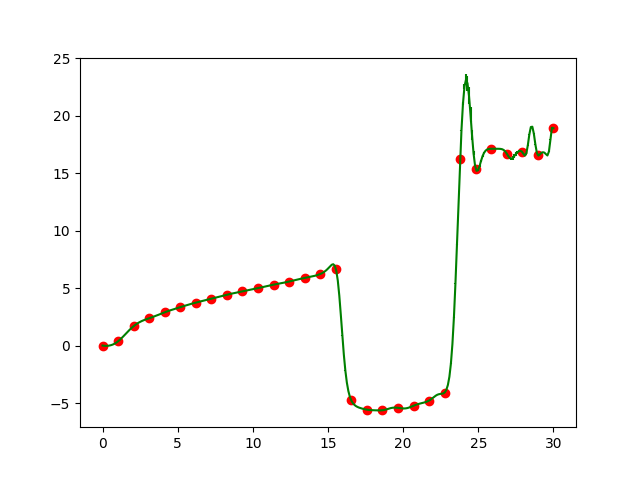
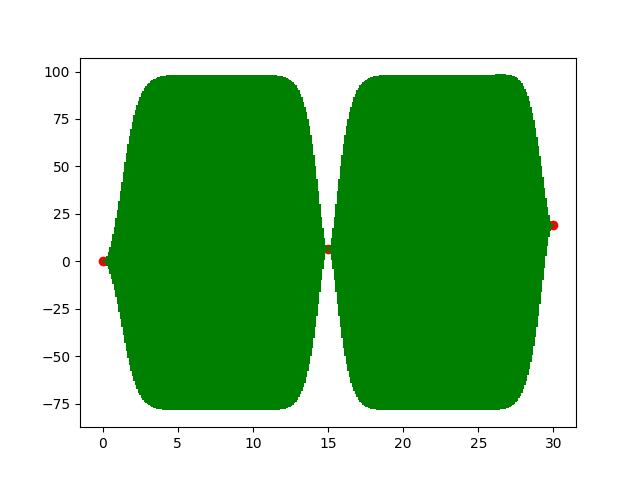
ignoring png files

diff --git a/solver.py b/solver.py
@@ -148,7 +148,7 @@ if __name__ == "__main__":
     _, ax = plt.subplots()
     # Step.plot(ax)
 
-    xdata, ydata = create_data((0, 30), 30, solver)
+    xdata, ydata = create_data((0, 30), 3, solver)
 
     xdata = xdata[:, None]
     ydata = ydata.reshape(-1, 1)
@@ -162,7 +162,7 @@ if __name__ == "__main__":
     all_layer = dgpsi.combine(layer1, layer2, layer3)
 
     model = dgpsi.dgp(xdata, [ydata], all_layer)
-    model.train(1000)
+    model.train(500)#(1000)
 
     emulator = dgpsi.emulator(model.estimate())
     xpredict = np.linspace(0, 30, 300)[:, None].reshape(-1, 1)
